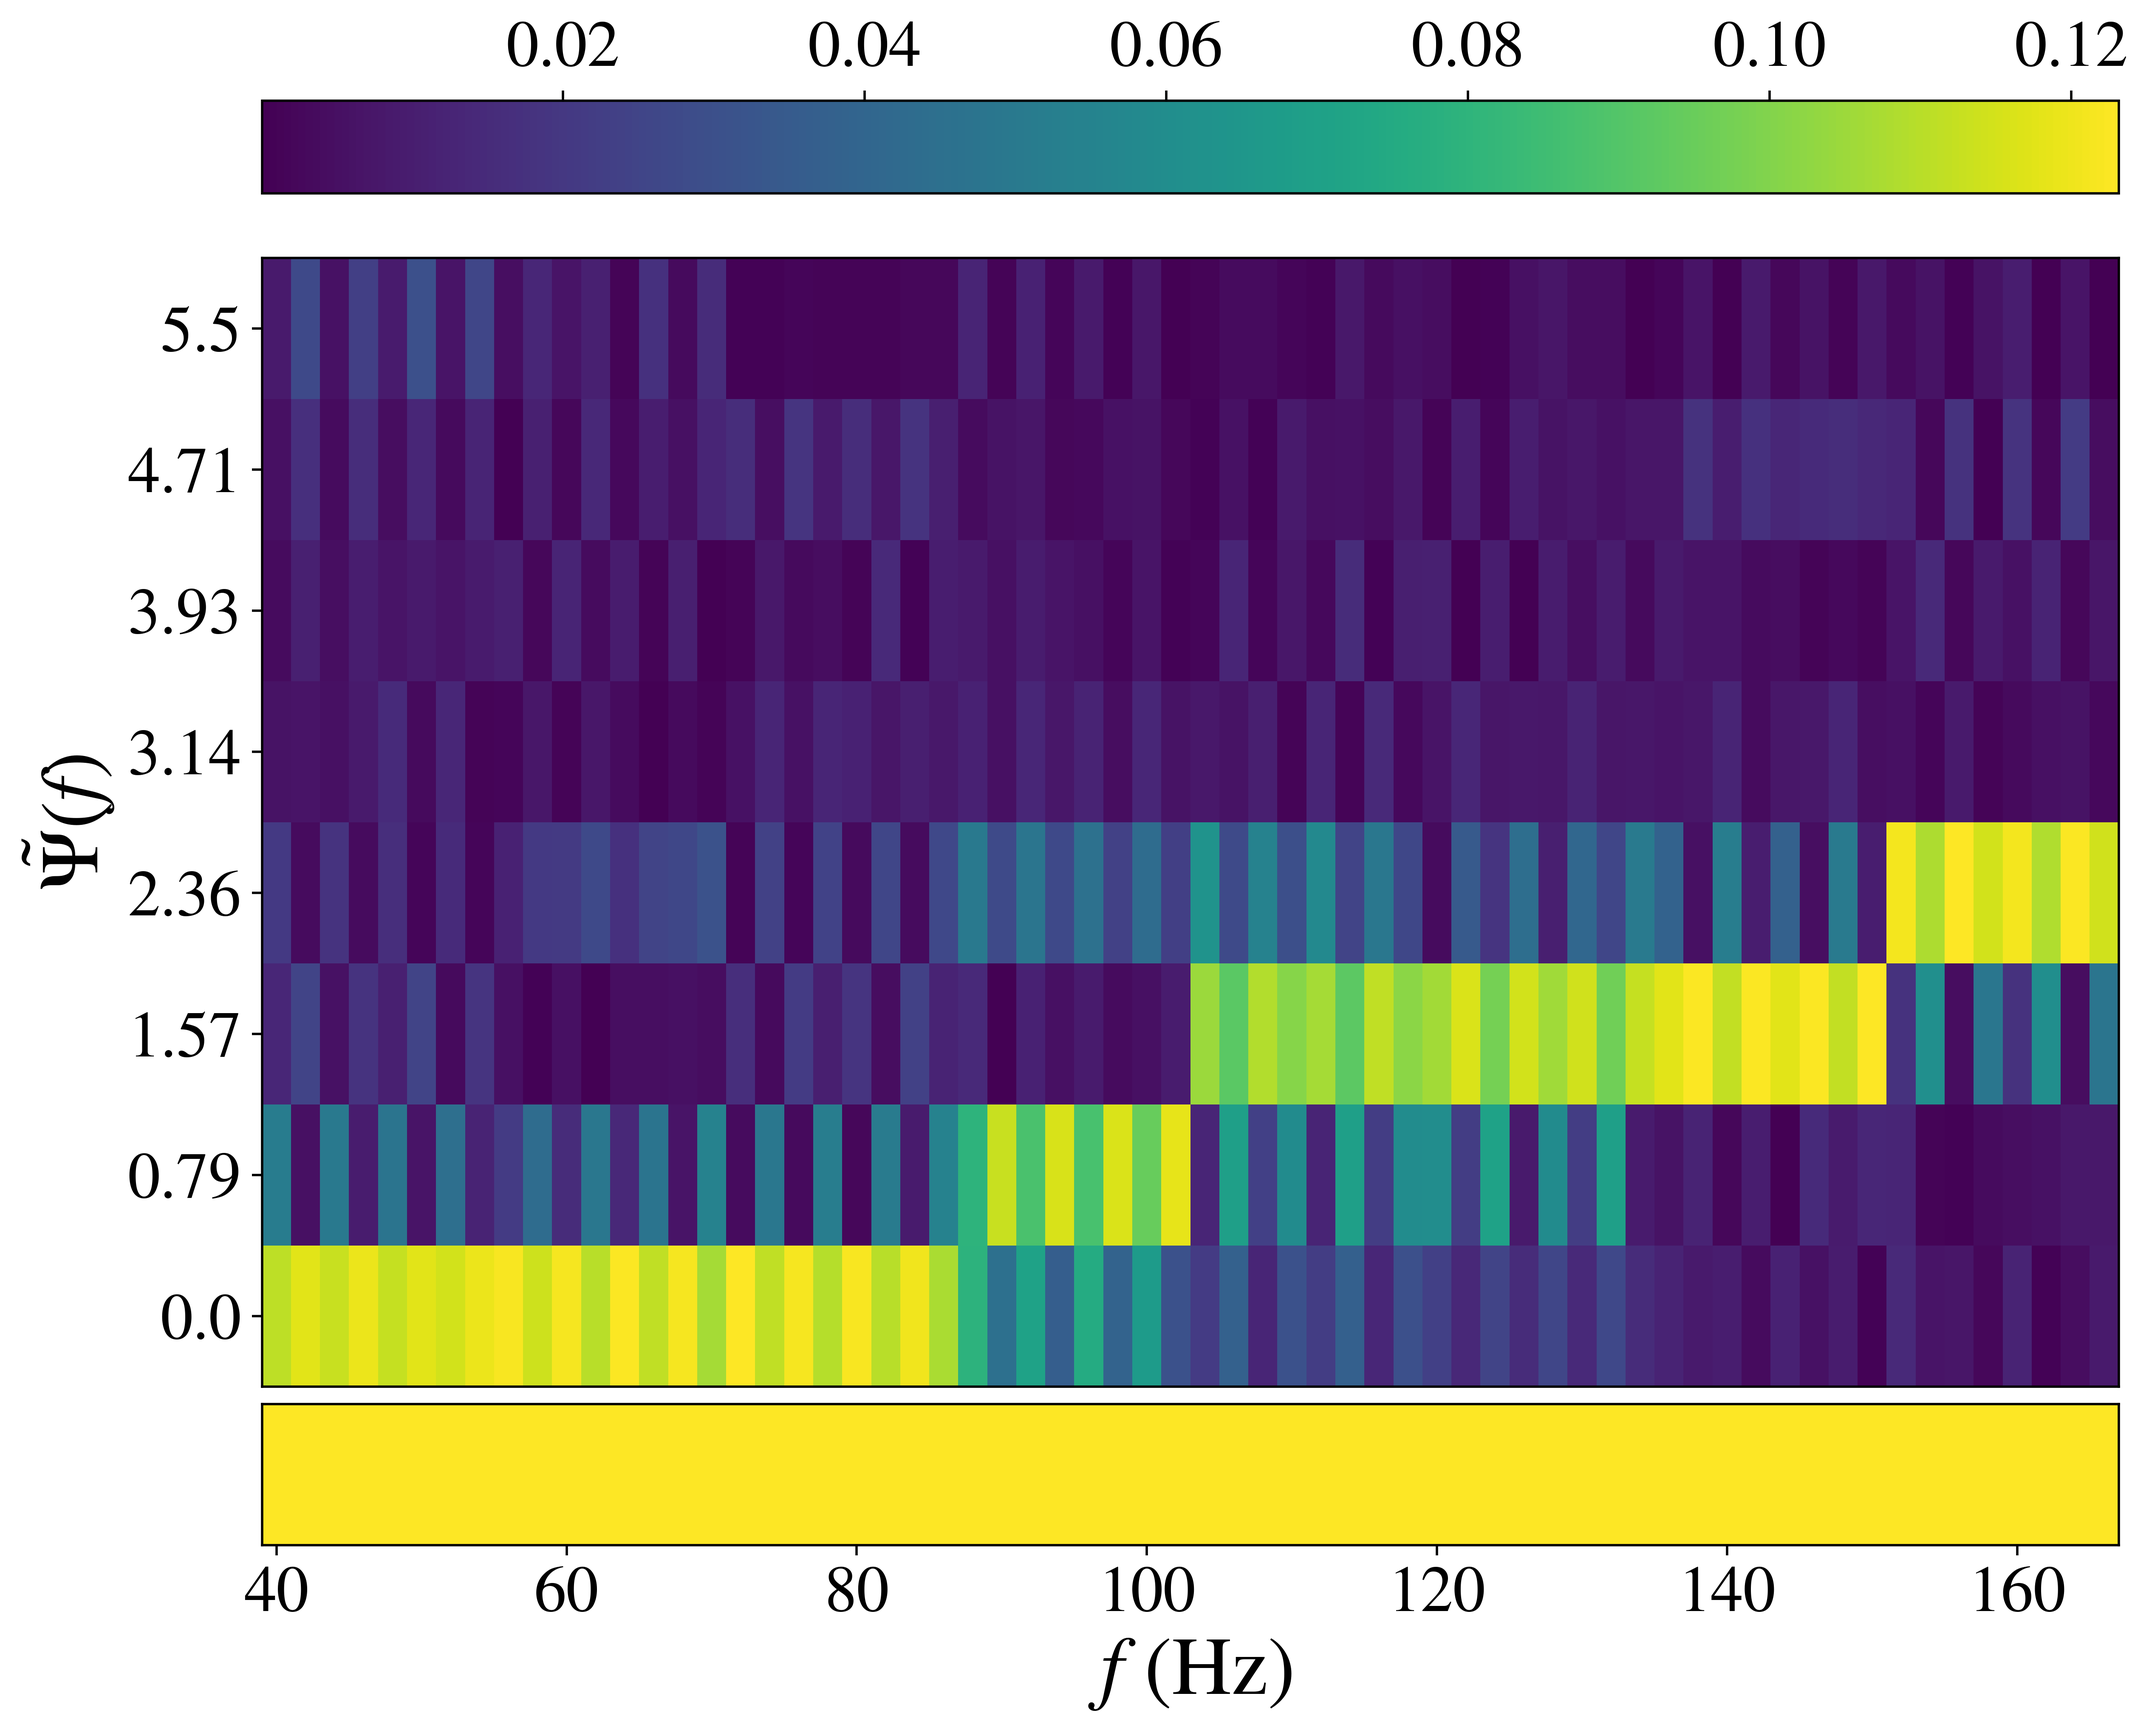
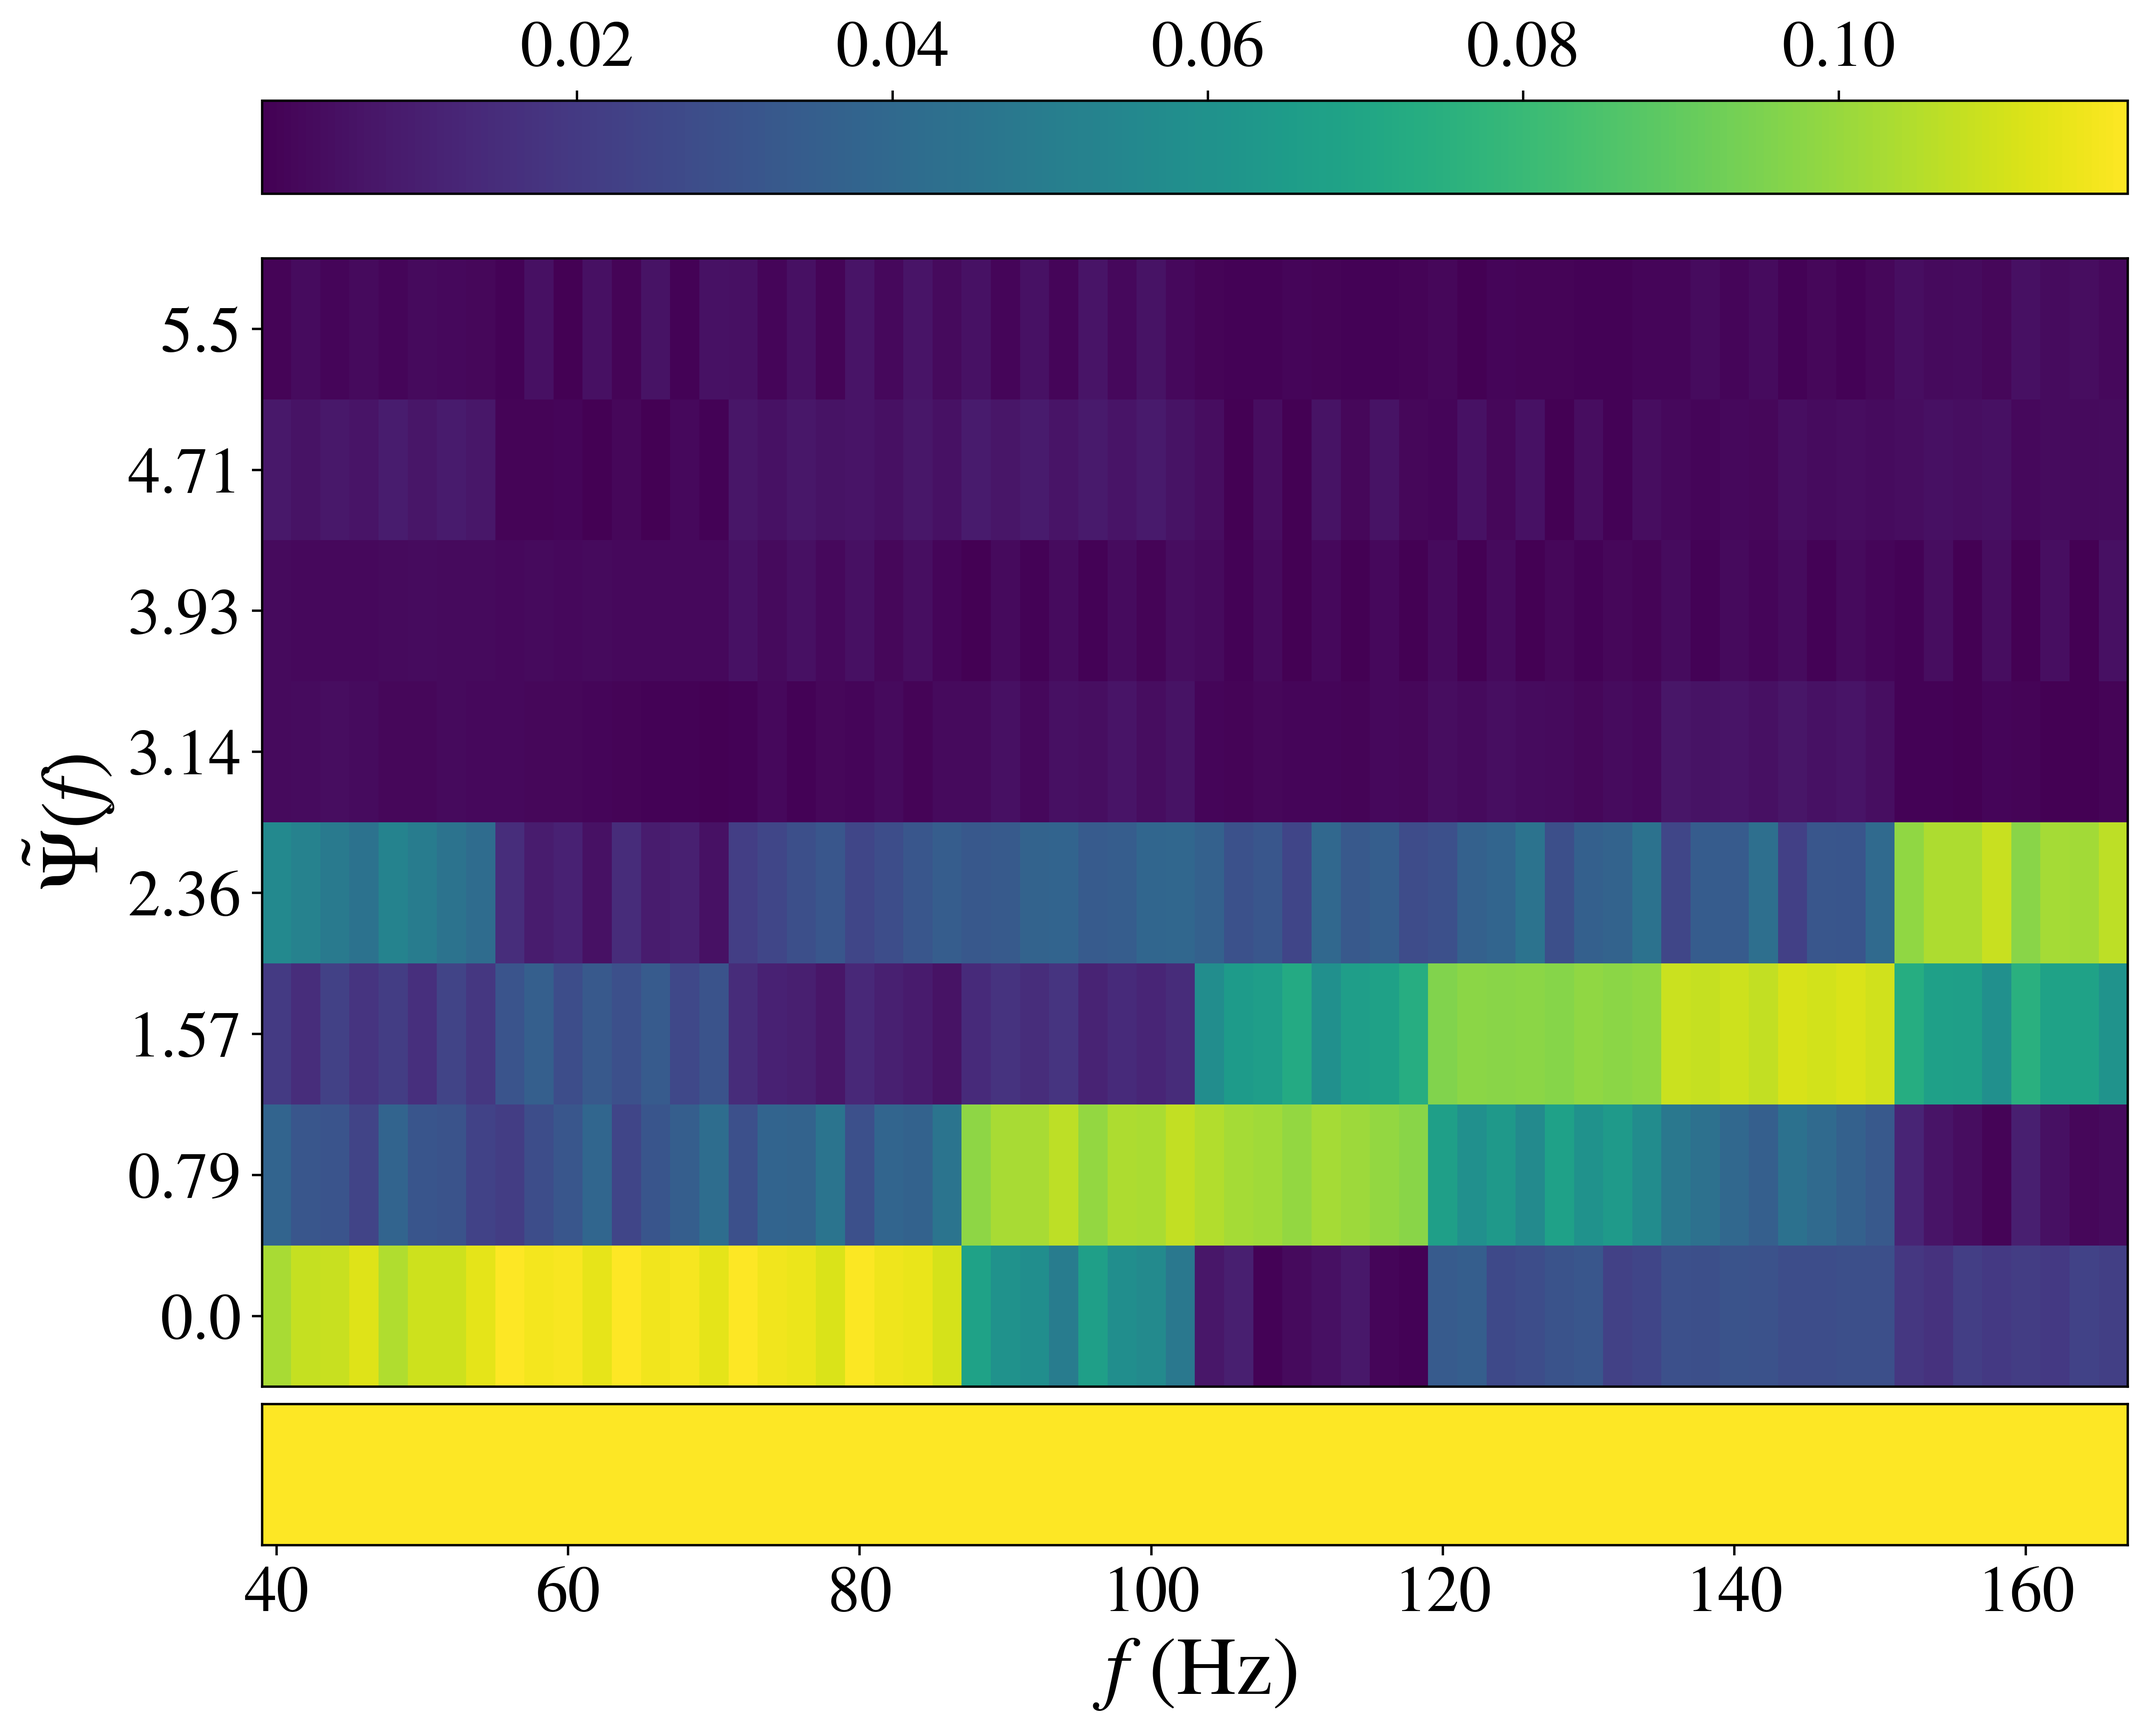
initialising parameters to zero

diff --git a/pqcprep/training_tools.py b/pqcprep/training_tools.py
@@ -243,9 +243,9 @@ def train_QNN(n,m,L, seed, epochs,func_str,loss_str,meta, recover_temp, nint, mi
         if not None in list(recover_paths.values):
             initial_weights=np.load(recover_paths["weights"])
         else:
-            initial_weights =rng.normal(0,1/np.sqrt(n+m),len(qc.parameters[n:])) #np.zeros(len(qc.parameters))  
+            initial_weights =np.zeros(len(qc.parameters[n:])) # initialise parameters to zero   
     else:
-        initial_weights =rng.normal(0,1/np.sqrt(n+m),len(qc.parameters[n:])) #rng.normal(0,1/np.sqrt(n+m),len(qc.parameters[n:])) 
+        initial_weights =np.zeros(len(qc.parameters[n:])) # initialise parameters to zero   
            
     # initialise TorchConnector
     model = TorchConnector(qnn, initial_weights)
@@ -580,10 +580,10 @@ def ampl_train_QNN(n,L,x_min,x_max,seed, epochs,func_str,loss_str,meta, recover_
         if not None in list(recover_paths.values):
             initial_weights=np.load(recover_paths["weights"])
         else:
-            initial_weights =rng.normal(0,1/np.sqrt(n),len(qc.parameters)) #algorithm_globals.random.random(len(qc.parameters))    
+            initial_weights =np.zeros(len(qc.parameters)) # initialise parameters to zero   
     
     else:
-        initial_weights = rng.normal(0,1/np.sqrt(n),len(qc.parameters)) #algorithm_globals.random.random(len(qc.parameters))
+        initial_weights = np.zeros(len(qc.parameters)) # initialise parameters to zero   
     
     # initialise TorchConnector
     model = TorchConnector(qnn, initial_weights)

diff --git a/encode.py b/encode.py
@@ -6,11 +6,11 @@ from pqcprep.binary_tools import bin_to_dec, dec_to_bin
 from pqcprep.psi_tools import psi 
 
 # config 
-L_phase = 9
+L_phase = 6
 real_p = True 
 m = 3
-psi_mode="linear"
-weights_phase =f"pqcprep/outputs/weights_6_{m}(0)_{L_phase}_600_{psi_mode}_SAM_0.4_(S)(PR)(r)_1680458526.npy" #"outputs/weights_6_3(0)_6_600_psi_MM_(S)(PR)(r).npy" 
+psi_mode="quadratic"
+weights_phase =f"pqcprep/outputs/weights_6_{m}(0)_{L_phase}_600_{psi_mode}_SAM_0.0_zeros(S)(PR)(r)_1680458526.npy" #"outputs/weights_6_3(0)_6_600_psi_MM_(S)(PR)(r).npy" 
 
 repeat_params=None
 operators="QRQ"
@@ -28,12 +28,12 @@ pdf = False # save outputs as pdf
 delta_round =True #calculate difference from rounded version 
 
 no_A = True # don't produce amplitude plot 
-no_p = False # don't produce phase plot 
+no_p = True # don't produce phase plot 
 no_h = True # don't produce h plot
 
 no_full_A = False # don't produce full amplitude plot
 no_full_p = False # don't produce full phase plot
-no_full_3D= False # don't produce full 3D plot
+no_full_3D= True # don't produce full 3D plot
 
 comp_full = True
 

diff --git a/slides/raw/week_6.tex b/slides/raw/week_6.tex
@@ -61,6 +61,10 @@ integrate encode.py into network...
 
 make sure to update docs files...
 
+
+INITIALLY SETTING PARAMETERS TO ZERO SEEMS TO MAKE A DIFFERENCE ???!!!
+==>> HELPS REDUCING PHASE SHIFTS??
+
 \end{frame}
 
 \begin{frame}
